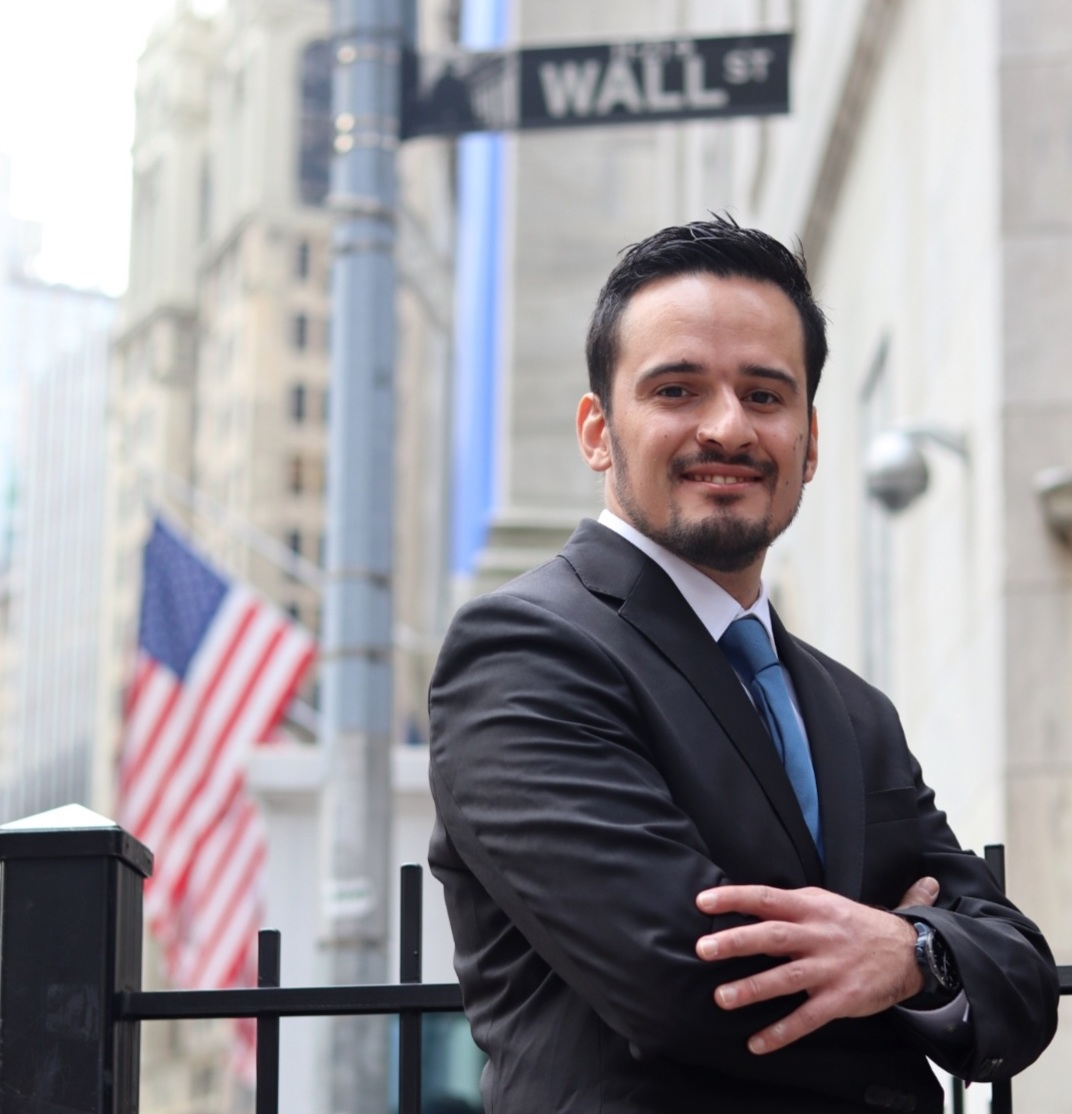
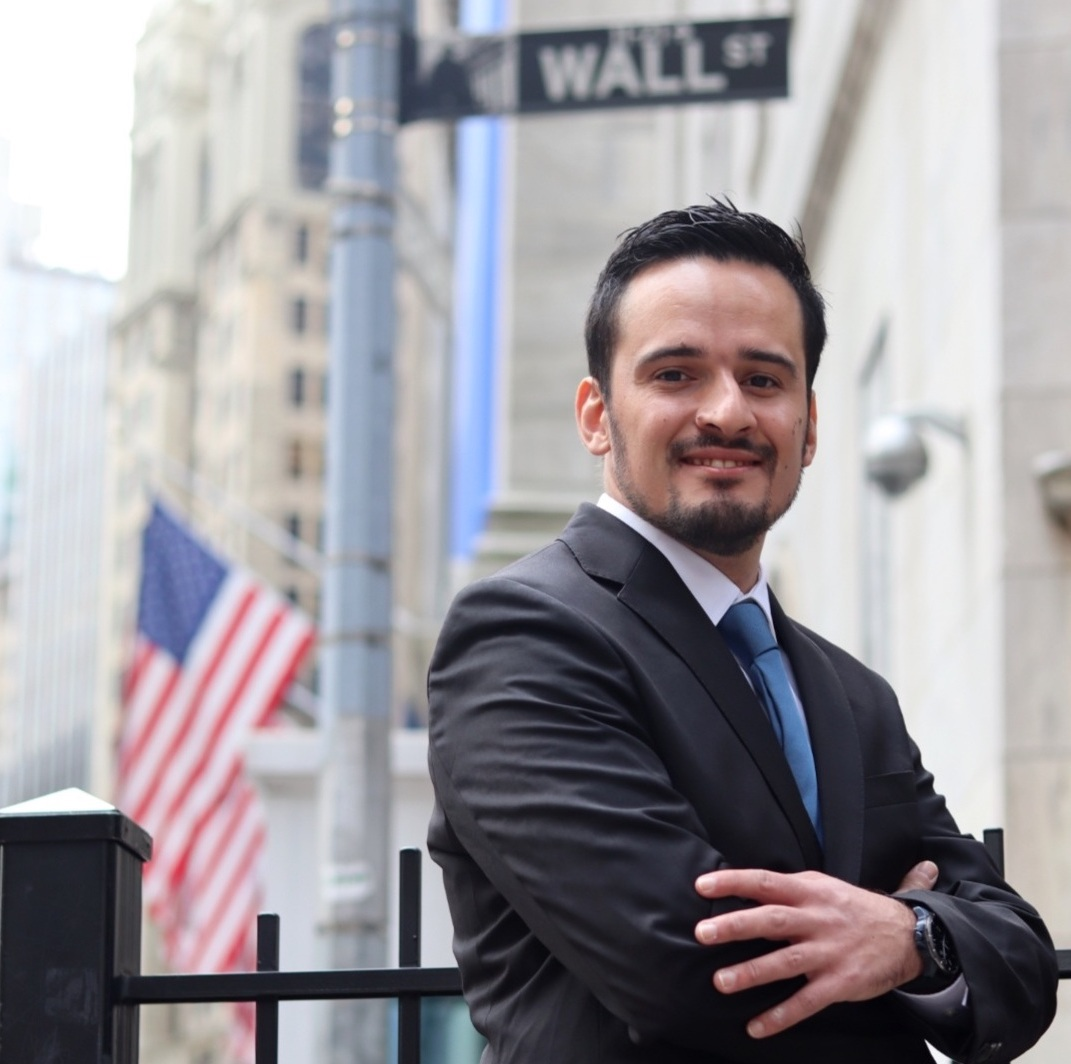
Adjusted profile picture size.

diff --git a/stylesheets/main.css b/stylesheets/main.css
@@ -50,7 +50,6 @@ h4 {
   width: 100%;
   position: absolute;
   top: 0;
-  /* transition: all 0.4s ease-in-out; */
 }
 
 .navbar-pages {
@@ -605,20 +604,20 @@ section h1 {
     display: flex;
     align-content: center;
     padding: 0;
-    max-height: 50rem;
+    max-height: 45rem;
   }
 
   .about-picture {
     border-radius: 0;
     margin: 0;
-    width: 45%;
-    min-width: 500px;
+    max-width: 45%;
   }
 
   .about-text {
-    /* max-width: 780px; */
     padding: 3rem;
     font-size: 0.9rem;
+    width: 100%;
+    line-height: 1.3rem;
   }
 
   /* WHAT SECTION */
@@ -705,5 +704,21 @@ section h1 {
     );
     padding: 2rem;
     border-radius: 15px;
+  }
+}
+
+@media only screen and (min-width: 1600px) {
+  .about-section {
+    max-height: 40rem;
+  }
+
+  .about-picture {
+    max-width: 30%;
+  }
+
+  .about-text {
+    font-size: 1rem;
+    line-height: 1.5rem;
+    padding: 5rem;
   }
 }

diff --git a/services.html b/services.html
@@ -1,8 +1,4 @@
 <!DOCTYPE html>
-<!--[if lt IE 7]>      <html class="no-js lt-ie9 lt-ie8 lt-ie7"> <![endif]-->
-<!--[if IE 7]>         <html class="no-js lt-ie9 lt-ie8"> <![endif]-->
-<!--[if IE 8]>         <html class="no-js lt-ie9"> <![endif]-->
-<!--[if gt IE 8]>      <html class="no-js"> <!--<![endif]-->
 <html lang="en">
   <head>
     <meta charset="utf-8" />
